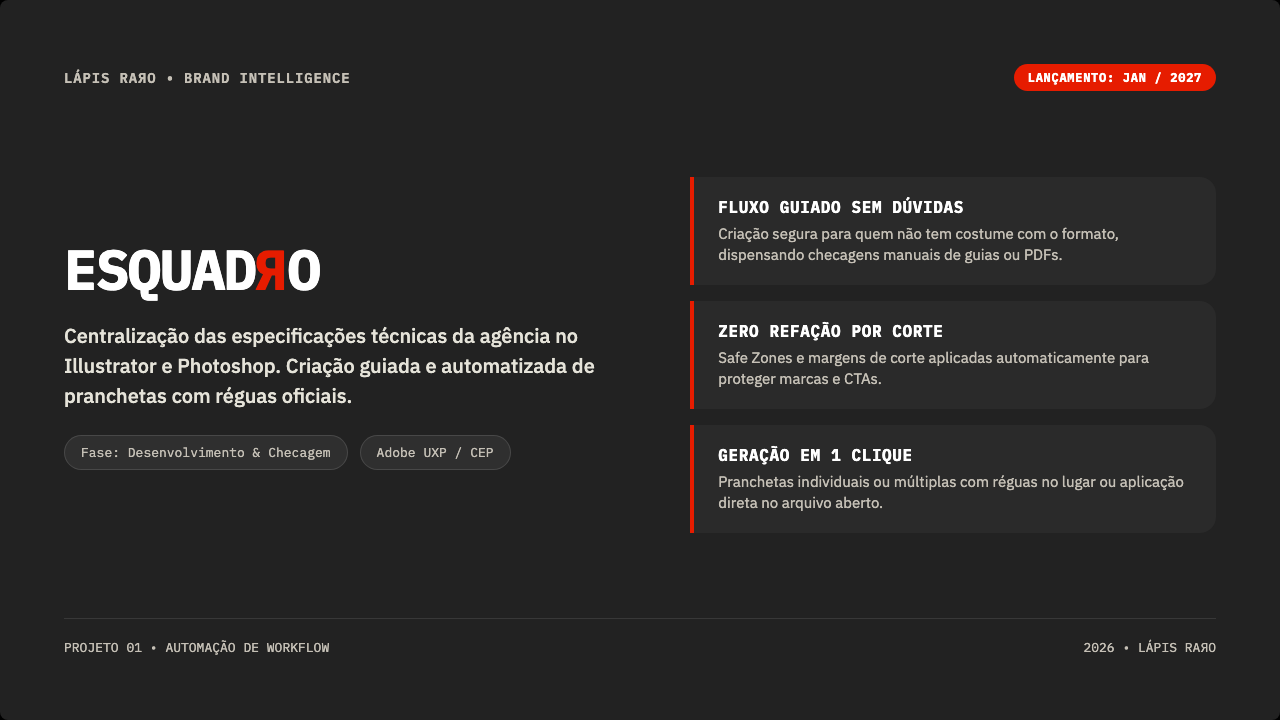
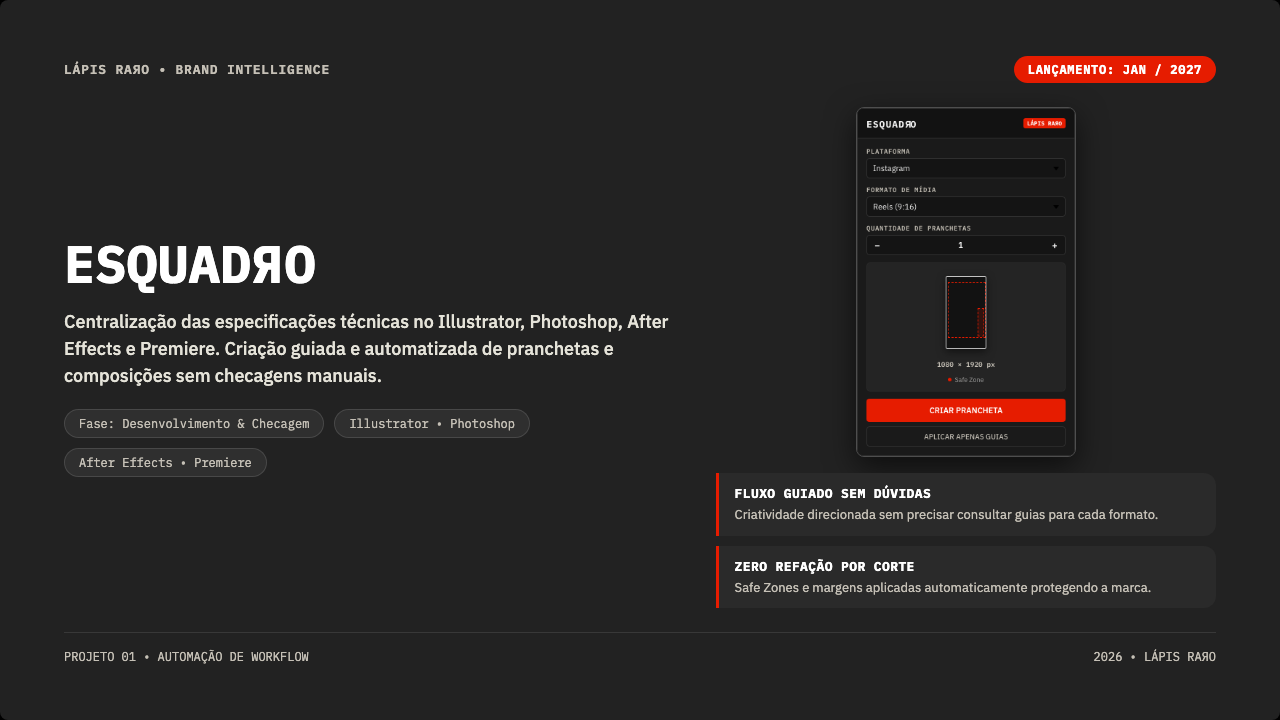
Update slide: white aligned title, AE/Premiere scope, embedded demo.gif

diff --git a/slide_esquadro.html b/slide_esquadro.html
@@ -35,7 +35,7 @@
       height: 720px;
       background-color: var(--noir-raro);
       color: var(--branco);
-      padding: 64px;
+      padding: 56px 64px;
       display: flex;
       flex-direction: column;
       justify-content: space-between;
@@ -54,7 +54,7 @@
 
     .tag-lr {
       font-family: var(--font-mono);
-      font-size: 14px;
+      font-size: 13px;
       font-weight: 600;
       letter-spacing: 0.06em;
       color: var(--areia-rara);
@@ -76,78 +76,104 @@
     /* Content Layout */
     .content-grid {
       display: grid;
-      grid-template-columns: 1.1fr 1fr;
-      gap: 48px;
+      grid-template-columns: 1.1fr 0.9fr;
+      gap: 40px;
       align-items: center;
     }
 
-    /* Left Column - Typography & Objective */
+    /* Title & Alignment Fix */
     .title-display {
       font-family: var(--font-mono);
-      font-size: 56px;
+      font-size: 52px;
       font-weight: 700;
-      letter-spacing: -0.03em;
-      line-height: 1.1;
-      margin-bottom: 20px;
+      letter-spacing: 0;
+      line-height: 1;
+      margin-bottom: 18px;
+      color: var(--branco);
+      display: flex;
+      align-items: baseline;
     }
 
     .r-virado {
       display: inline-block;
       transform: scaleX(-1);
-      color: var(--vermelho-raro);
+      color: var(--branco);
+      margin: 0 1px;
     }
 
     .objective-text {
-      font-size: 20px;
+      font-size: 18px;
       font-weight: 500;
       line-height: 1.5;
       color: var(--nude-raro);
-      margin-bottom: 24px;
+      margin-bottom: 20px;
     }
 
     .meta-pills {
       display: flex;
-      gap: 12px;
+      flex-wrap: wrap;
+      gap: 10px;
     }
 
     .pill {
       background-color: rgba(255,255,255,0.06);
       border: 1px solid rgba(255,255,255,0.12);
-      padding: 8px 16px;
+      padding: 6px 14px;
       border-radius: 999px;
       font-family: var(--font-mono);
-      font-size: 13px;
+      font-size: 12px;
       color: var(--areia-rara);
     }
 
-    /* Right Column - Feature Cards */
-    .features-list {
+    /* Right Column - Demo GIF & Features */
+    .right-col {
       display: flex;
       flex-direction: column;
       gap: 16px;
+      align-items: center;
+    }
+
+    .demo-gif-container {
+      width: 220px;
+      border-radius: 8px;
+      overflow: hidden;
+      border: 1px solid rgba(255,255,255,0.2);
+      box-shadow: 0 10px 30px rgba(0,0,0,0.6);
+    }
+
+    .demo-gif-container img {
+      width: 100%;
+      display: block;
+    }
+
+    .features-list {
+      display: flex;
+      flex-direction: column;
+      gap: 10px;
+      width: 100%;
     }
 
     .feature-card {
       background-color: #2A2A2A;
-      border-left: 4px solid var(--vermelho-raro);
-      border-radius: 0 16px 16px 0;
-      padding: 20px 24px;
+      border-left: 3px solid var(--vermelho-raro);
+      border-radius: 0 12px 12px 0;
+      padding: 12px 16px;
     }
 
     .feature-title {
       font-family: var(--font-mono);
-      font-size: 16px;
+      font-size: 13px;
       font-weight: 700;
       color: var(--branco);
-      margin-bottom: 6px;
+      margin-bottom: 4px;
       text-transform: uppercase;
-      letter-spacing: 0.04em;
+      letter-spacing: 0.03em;
     }
 
     .feature-desc {
-      font-size: 15px;
+      font-size: 13px;
       color: var(--areia-rara);
-      line-height: 1.4;
+      line-height: 1.35;
     }
 
     /* Footer */
@@ -155,9 +181,9 @@
       display: flex;
       justify-content: space-between;
       border-top: 1px solid rgba(255,255,255,0.1);
-      padding-top: 20px;
+      padding-top: 16px;
       font-family: var(--font-mono);
-      font-size: 13px;
+      font-size: 12px;
       color: var(--areia-rara);
     }
   </style>
@@ -176,26 +202,28 @@
       <div class="main-left">
         <h1 class="title-display">ESQUAD<span class="r-virado">R</span>O</h1>
         <p class="objective-text">
-          Centralização das especificações técnicas da agência no Illustrator e Photoshop. Criação guiada e automatizada de pranchetas com réguas oficiais.
+          Centralização das especificações técnicas no Illustrator, Photoshop, After Effects e Premiere. Criação guiada e automatizada de pranchetas e composições sem checagens manuais.
         </p>
         <div class="meta-pills">
           <span class="pill">Fase: Desenvolvimento & Checagem</span>
-          <span class="pill">Adobe UXP / CEP</span>
+          <span class="pill">Illustrator • Photoshop</span>
+          <span class="pill">After Effects • Premiere</span>
         </div>
       </div>
 
-      <div class="features-list">
-        <div class="feature-card">
-          <div class="feature-title">Fluxo Guiado sem Dúvidas</div>
-          <div class="feature-desc">Criação segura para quem não tem costume com o formato, dispensando checagens manuais de guias ou PDFs.</div>
+      <div class="right-col">
+        <div class="demo-gif-container">
+          <img src="demo.gif" alt="Demonstração do ESQUADЯO">
         </div>
-        <div class="feature-card">
-          <div class="feature-title">Zero Refação por Corte</div>
-          <div class="feature-desc">Safe Zones e margens de corte aplicadas automaticamente para proteger marcas e CTAs.</div>
-        </div>
-        <div class="feature-card">
-          <div class="feature-title">Geração em 1 Clique</div>
-          <div class="feature-desc">Pranchetas individuais ou múltiplas com réguas no lugar ou aplicação direta no arquivo aberto.</div>
+        <div class="features-list">
+          <div class="feature-card">
+            <div class="feature-title">Fluxo Guiado sem Dúvidas</div>
+            <div class="feature-desc">Criatividade direcionada sem precisar consultar guias para cada formato.</div>
+          </div>
+          <div class="feature-card">
+            <div class="feature-title">Zero Refação por Corte</div>
+            <div class="feature-desc">Safe Zones e margens aplicadas automaticamente protegendo a marca.</div>
+          </div>
         </div>
       </div>
     </div>